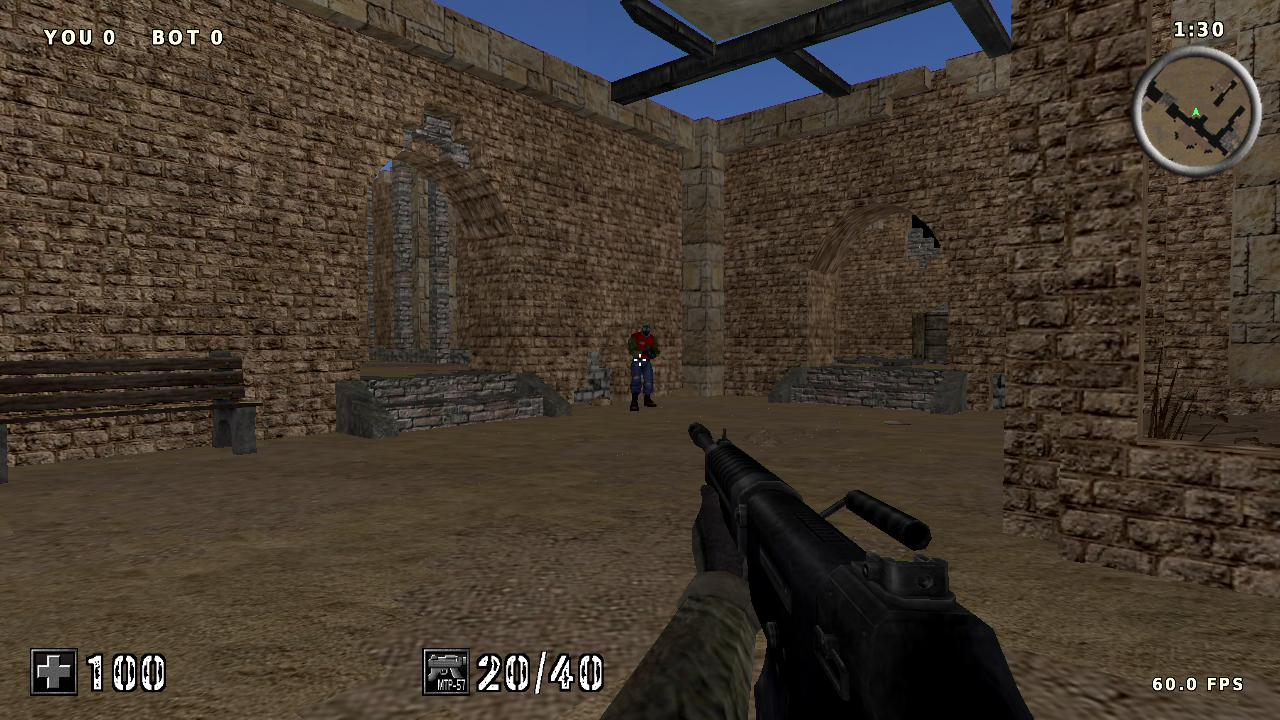
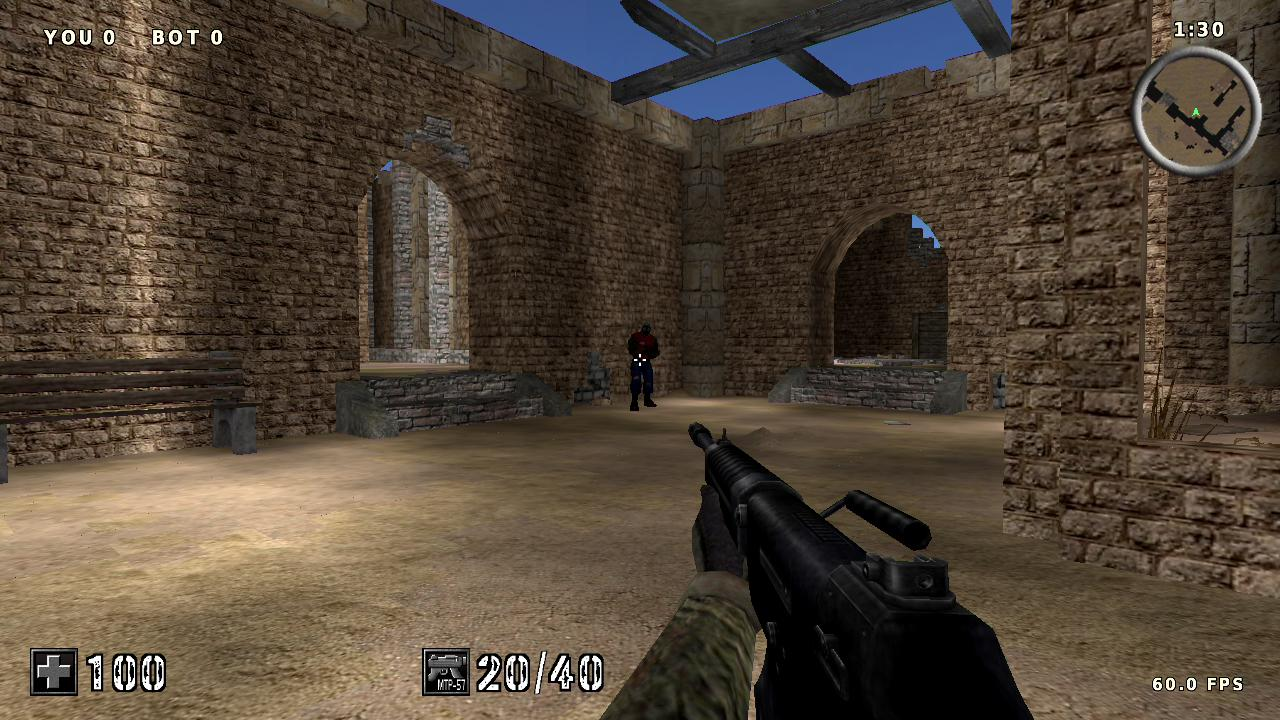
Sample the ac_desert light field across Xbox walls and floors

diff --git a/xbox/bake_gpu.py b/xbox/bake_gpu.py
@@ -1,6 +1,5 @@
 """Build GPU texture uploads and material batches from the original ac_desert assets."""
 from collections import defaultdict
-from functools import lru_cache
 from pathlib import Path
 import re
 import struct
@@ -45,17 +44,6 @@ def bake_gpu(out, packages, names, cells, deltas, entities, model_slots, lightin
         sx,sy=world_uv[tex]
         return (u*sx,v*sy)
     world = np.frombuffer(cells,np.uint8).reshape(256,256,8)
-    lights = np.array([(x,y,z,max(2,r),red,green or red,blue or red)
-                       for x,y,z,r,kind,red,green,blue in entities if kind == 1 and r>0])
-    @lru_cache(None)
-    def light(x,y,z,face):
-        # Map light radii and colors modulate vertex albedo; directional ambient keeps outdoor walls readable.
-        base = (0.73,0.59,0.80,0.68)[face]
-        delta = lights[:,:3] - (x,y,z)
-        weight = np.maximum(0,1-np.sqrt((delta*delta).sum(axis=1))/lights[:,3])
-        rgb = np.minimum(255, base*235 + (weight[:,None]*lights[:,4:]).sum(axis=0)*.53)
-        return tuple(rgb.astype(int))
-
     # Each coplanar grid stores its material. Merge neighboring cells with identical surfaces.
     planes = defaultdict(dict)
     groups = defaultdict(list)
@@ -78,7 +66,7 @@ def bake_gpu(out, packages, names, cells, deltas, entities, model_slots, lightin
                     planes[face,points[0][2],bool(face)][x,y]=tex
                 else:
                     for p in ([points[i] for i in (1,0,3,2)] if face else points):
-                        groups[tex].append((p,world_texcoord(tex,p[0],p[1]),light(*p,face)))
+                        groups[tex].append((p,world_texcoord(tex,p[0],p[1]),(255,255,255)))
             for dx,dy in ((1,0),(-1,0),(0,1),(0,-1)):
                 nk,nf,nc,nw,_,_,nu,_ = map(int,world[y+dy,x+dx])
                 nf,nc = (nf+128)%256-128,(nc+128)%256-128
@@ -104,7 +92,7 @@ def bake_gpu(out, packages, names, cells, deltas, entities, model_slots, lightin
                         corners=((a[0],a[1]),(b[0],b[1]),(b[0],b[2]),(a[0],a[2]))
                         for s,z in (reversed(corners) if dx>0 or dy<0 else corners):
                             p=(coord,s,z) if dx else (s,coord,z)
-                            groups[tex].append((p,world_texcoord(tex,s,-z),light(*p,axis)))
+                            groups[tex].append((p,world_texcoord(tex,s,-z),(255,255,255)))
                     continue
                 walls = [(f,c,nw)] if nk<2 else [(f,min(c,nf),nw),(max(f,nc),c,nu)]
                 for low,high,material in walls:
@@ -122,7 +110,7 @@ def bake_gpu(out, packages, names, cells, deltas, entities, model_slots, lightin
             corners=((a,b),(a+width,b),(a+width,b+height),(a,b+height))
             for u,v in (reversed(corners) if reverse else corners):
                 xyz = (u,v,level) if face<2 else (level,u,v) if face==2 else (u,level,v)
-                groups[tex].append((xyz,world_texcoord(tex,u,v if face<2 else -v),light(*xyz,face)))
+                groups[tex].append((xyz,world_texcoord(tex,u,v if face<2 else -v),(255,255,255)))
     mark("SKY_PORTAL_BATCH",len(batches))
     add_batch(0,groups.pop(0),4)
     for tex,points in sorted(groups.items()): add_batch(tex,points,4)
@@ -289,6 +277,8 @@ def bake_gpu(out, packages, names, cells, deltas, entities, model_slots, lightin
     texture(Image.new("RGBA",(4,4),"white"),(4,4),False)
     mark("FONT_TEX",len(textures))
     texture(Image.open(packages/"misc/chars_default.png"),(512,512),False)
+    mark("WORLD_LIGHT_TEX",len(textures))
+    texture(Image.fromarray(lighting),(256,256),False)
     glyphs=re.findall(r"^fontchar\s+(-?\d+)\s+(-?\d+)\s+(\d+)\s+(\d+)",
                       (packages.parent/"config/font_default.cfg").read_text(),re.M)[:94]
     mark("VERTEX_BYTES",len(vertices))

diff --git a/xbox/gpu_render.c b/xbox/gpu_render.c
@@ -21,6 +21,8 @@ extern const unsigned char gpu_vertices[], gpu_textures[];
 extern const unsigned char cell_light[256][256][3];
 typedef struct { float x,y,z,u,v; unsigned char rgba[4]; } Vertex;
 static const Vertex *geometry;
+typedef struct { float u,v; } LightUV;
+static LightUV *world_light_uv;
 typedef struct { float x,y,z; } Position;
 static Position *pose_positions;
 static unsigned pose_cursor;
@@ -78,6 +80,13 @@ int gpu_init(int width, int height) {
     if (!buffer) return 0;
     memcpy(buffer,gpu_vertices,VERTEX_BYTES);
     geometry = buffer;
+    const Batch *last_world=&batches[WORLD_BATCHES-1];
+    unsigned world_count=last_world->first+last_world->count;
+    world_light_uv=pbgl_alloc(world_count*sizeof(*world_light_uv));
+    if (!world_light_uv) return 0;
+    const Vertex *source=(const Vertex *)gpu_vertices;
+    for (unsigned i=0;i<world_count;++i)
+        world_light_uv[i]=(LightUV){(source[i].x+.5f)/256,(source[i].y+.5f)/256};
     unsigned rifle=batches[ASSAULT_BATCH].count+batches[ASSAULT_BATCH+1].count;
     unsigned pistol=batches[PISTOL_BATCH].count+batches[PISTOL_BATCH+1].count;
     unsigned count=batches[BODY_BATCH].count+batches[BOT_GUN_BATCH].count+(rifle>pistol?rifle:pistol);
@@ -115,6 +124,12 @@ int gpu_init(int width, int height) {
     glTexEnvi(GL_TEXTURE_ENV,GL_TEXTURE_ENV_MODE,GL_MODULATE);
     glTexEnvi(GL_TEXTURE_ENV,GL_RGB_SCALE,2);
     glEnableClientState(GL_COLOR_ARRAY);
+    // Address the light grid with the same map XY used by the PC vertices.
+    glActiveTexture(GL_TEXTURE1);
+    glBindTexture(GL_TEXTURE_2D,textures[WORLD_LIGHT_TEX]);
+    glTexEnvi(GL_TEXTURE_ENV,GL_TEXTURE_ENV_MODE,GL_COMBINE);
+    glTexEnvi(GL_TEXTURE_ENV,GL_RGB_SCALE,2);
+    glActiveTexture(GL_TEXTURE0);
     return 1;
 }
 
@@ -249,7 +264,23 @@ static void level(const MatchView *v) {
     batch(SKY_PORTAL_BATCH);
     glStencilOp(GL_KEEP,GL_KEEP,GL_INCR);
     glColorMask(GL_TRUE,GL_TRUE,GL_TRUE,GL_TRUE);
-    for (int i=SKY_PORTAL_BATCH+1;i<WORLD_BATCHES;++i) batch(i);
+    glActiveTexture(GL_TEXTURE1);
+    glEnable(GL_TEXTURE_2D);
+    glActiveTexture(GL_TEXTURE0);
+    glClientActiveTexture(GL_TEXTURE1);
+    glEnableClientState(GL_TEXTURE_COORD_ARRAY);
+    for (int i=SKY_PORTAL_BATCH+1;i<WORLD_BATCHES;++i) {
+        glClientActiveTexture(GL_TEXTURE1);
+        glTexCoordPointer(2,GL_FLOAT,sizeof(LightUV),world_light_uv+batches[i].first);
+        glClientActiveTexture(GL_TEXTURE0);
+        batch(i);
+    }
+    glClientActiveTexture(GL_TEXTURE1);
+    glDisableClientState(GL_TEXTURE_COORD_ARRAY);
+    glClientActiveTexture(GL_TEXTURE0);
+    glActiveTexture(GL_TEXTURE1);
+    glDisable(GL_TEXTURE_2D);
+    glActiveTexture(GL_TEXTURE0);
     glDisable(GL_CULL_FACE);
     glTexEnvi(GL_TEXTURE_ENV,GL_TEXTURE_ENV_MODE,GL_COMBINE);
     for (int i=PROP_START;i<PROP_END;++i) batch(i);

diff --git a/xbox/README.md b/xbox/README.md
@@ -20,7 +20,7 @@ Controllers can be plugged in or replaced while the game is running. Any of the 
 
 The HUD shows frags, time remaining, health, armour, and ammunition in the magazine and reserve. Walk over the map's ammo, health, helmet, and armour pickups to collect them. The bot can collect them too.
 
-The Xbox selects 1280x720 at 60 Hz when enabled in the console video settings and supported by the cable. It falls back to 640x480. The map uses batched geometry, filtered mipmapped textures, and lighting baked from the map entities. The player and first-person weapons use the bundled MD2 and MD3 meshes. The HUD updates its frame counter every two seconds.
+The Xbox selects 1280x720 at 60 Hz when enabled in the console video settings and supported by the cable. It falls back to 640x480. Walls and floors sample the map's baked light grid. The bot, pickups, and first-person models take their lighting from the cell they occupy. The HUD updates its frame counter every two seconds.
 
 ## Build and run
 
@@ -38,7 +38,7 @@ In an activated nxdk shell with SDL2, pbkit, C++ support and the XISO tools, run
 make -C xbox -j4
 ```
 
-Copy `xbox/bin/default.xbe` into its own Games folder on a homebrew-capable original Xbox. The executable includes the baked assets. The build also produces `xbox/assaultcube.iso`. Original asset credits and licenses remain in the map and packages directories.
+Copy `xbox/bin/default.xbe` into its own Games folder on a homebrew-capable original Xbox. With XBMC's FTP server, you can launch it directly by sending `SITE RunXBE F:\Games\AssaultCube\default.xbe` using the installed path. The executable includes the baked assets. The build also produces `xbox/assaultcube.iso`. Original asset credits and licenses remain in the map and packages directories.
 
 ## Shared gameplay and platform code
 
@@ -51,7 +51,7 @@ The PC client, dedicated server, and Xbox match consume the same `playerstate` c
 | `match.cpp` | Portable local duel, bot decisions, active weapons, item timers, respawns, and intermission |
 | `navigation.c` | Map collision, line of sight, and shortest walkable paths around obstacles |
 | `gpu_render.c` | NV2A world and model drawing, skybox, HUD, and vblank presentation through pbGL and pbkit |
-| `bake.py`, `bake_gpu.py`, `assets.s` | Import and embed original game assets including free-for-all player starts |
+| `bake.py`, `bake_gpu.py`, `bake_lighting.py`, `assets.s` | Import and embed the original map, lighting, models, textures, and sounds |
 
 The Xbox duel uses its own bot AI and movement code. The renderer includes the original map props and sloped floors and ceilings. Diagonal wall cells still use solid squares. The playable loadout is the rifle and pistol.
 
